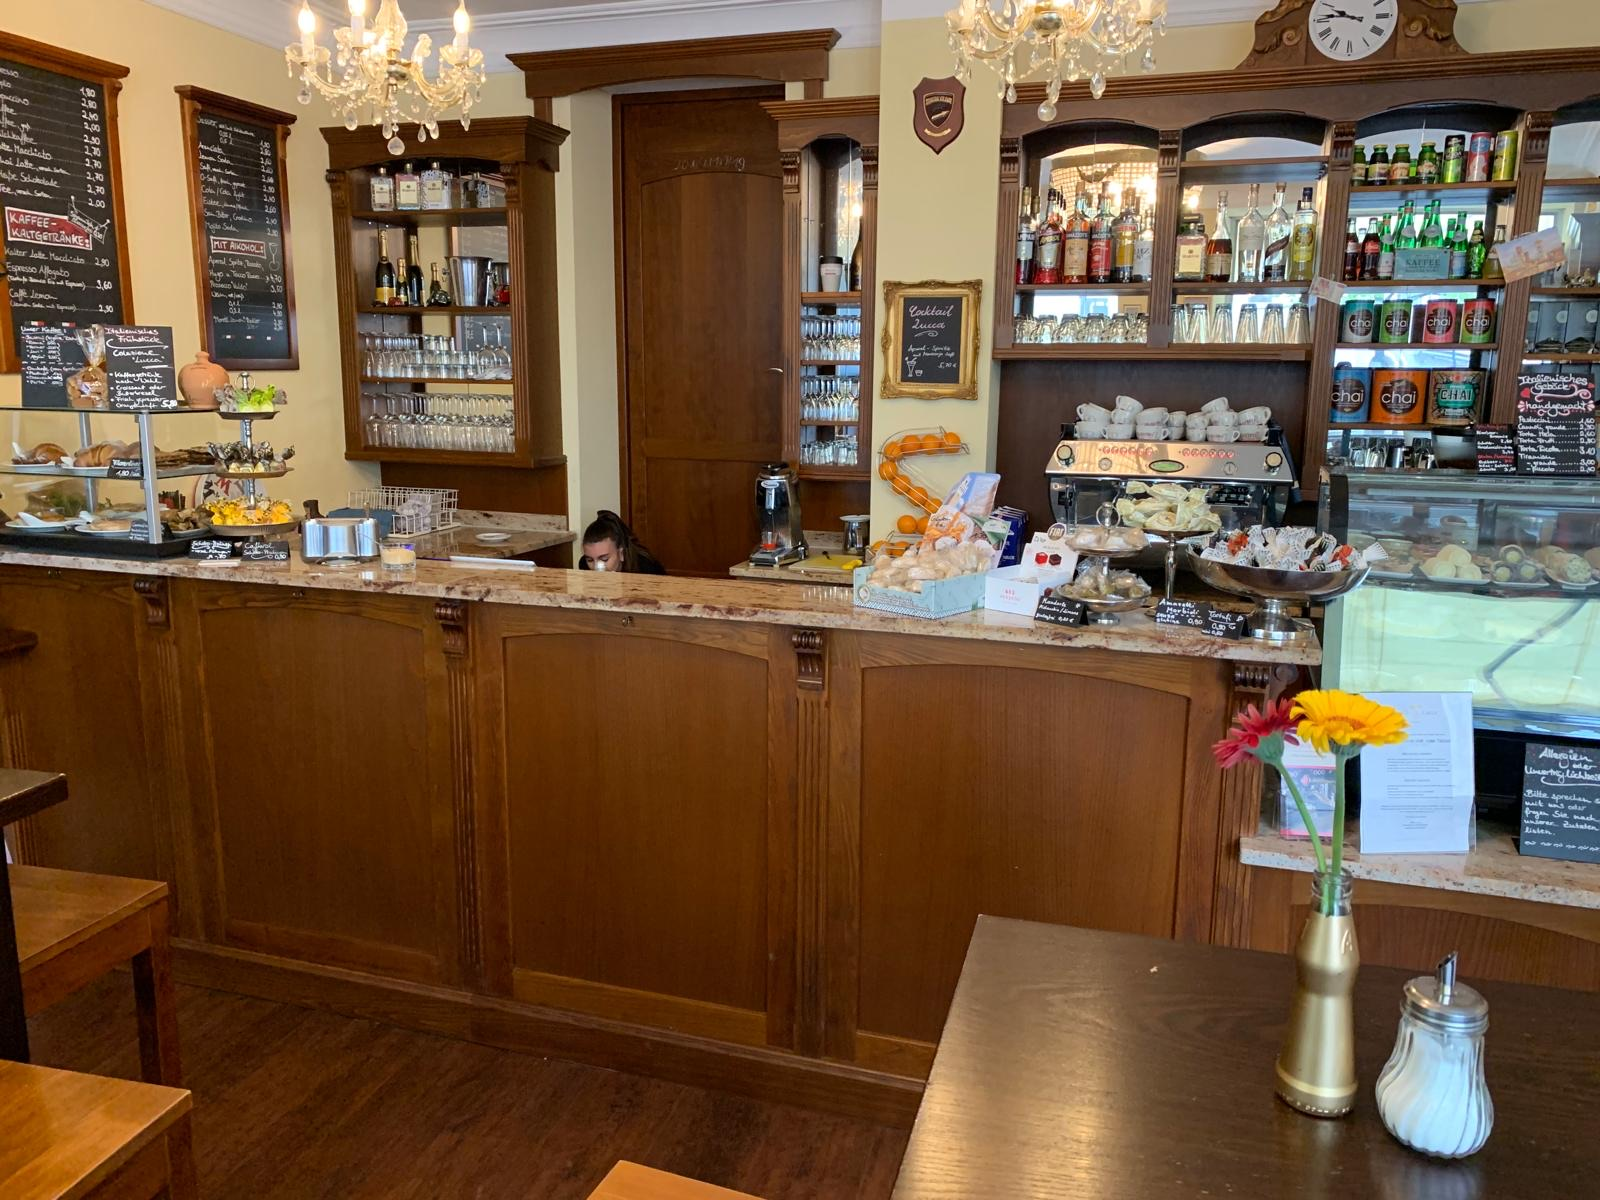
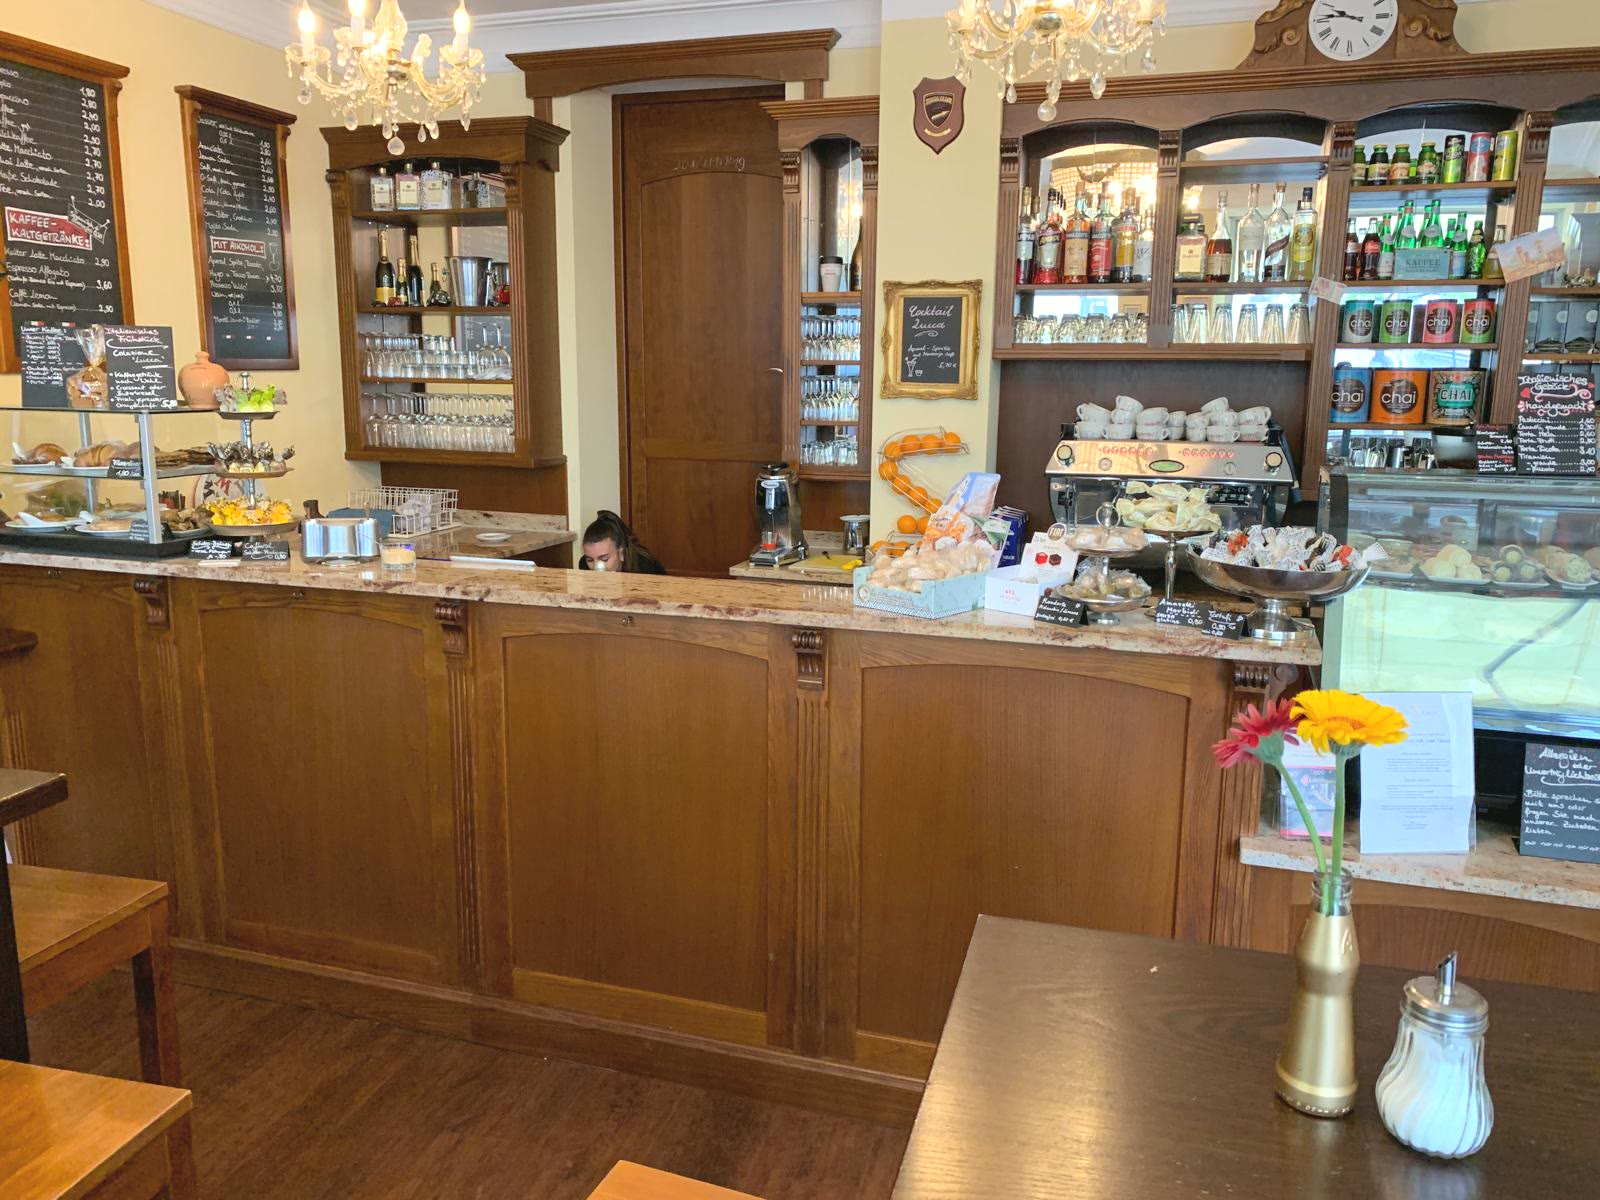
Brighten dessert and bar photos (gamma lift from originals)

diff --git a/gallery-manifest.js b/gallery-manifest.js
@@ -5,9 +5,9 @@ window.MOMENTS = [
   { src: "facade.jpg",             alt: "Caffè Lucca façade with terrace seating and fairy lights", caption: "Ritterstraße, Füssen" },
   { src: "team.jpg?v=2",           alt: "The Caffè Lucca team gathered in the café", caption: "La famiglia — the Lucca team" },
   { src: "breakfast-tray.jpg",     alt: "Cappuccino, espresso and fresh orange juice on the morning square", caption: "Colazione on the square" },
-  { src: "bar.jpg",                alt: "The wooden bar with chandeliers, pastries and the espresso machine", caption: "The bar" },
+  { src: "bar.jpg?v=2",            alt: "The wooden bar with chandeliers, pastries and the espresso machine", caption: "The bar" },
   { src: "aperitivo.jpg",          alt: "Spritz, gin tonic, olives and grissini on the terrace", caption: "Aperitivo hour" },
   { src: "breakfast-croissant.jpg", alt: "Croissant, orange juice and cappuccino in the morning sun", caption: "Buongiorno" },
-  { src: "dessert.jpg",            alt: "Dessert glasses with whipped cream and cinnamon", caption: "Something sweet" },
+  { src: "dessert.jpg?v=2",        alt: "Dessert glasses with whipped cream and cinnamon", caption: "Something sweet" },
   { src: "breakfast-pretzel.jpg",  alt: "Croissant and pretzel breakfast on the square", caption: "Bavaria meets Italia" }
 ];